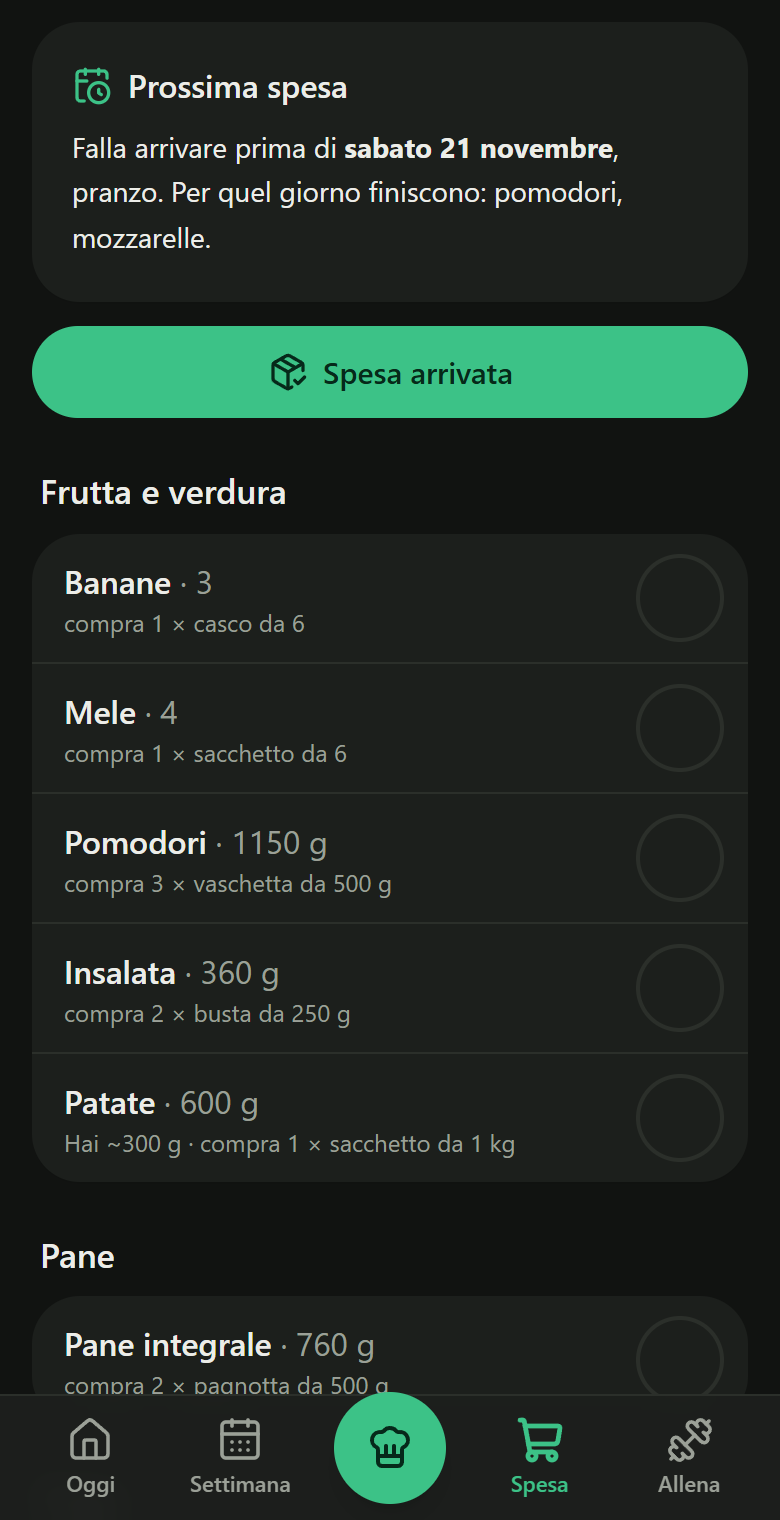
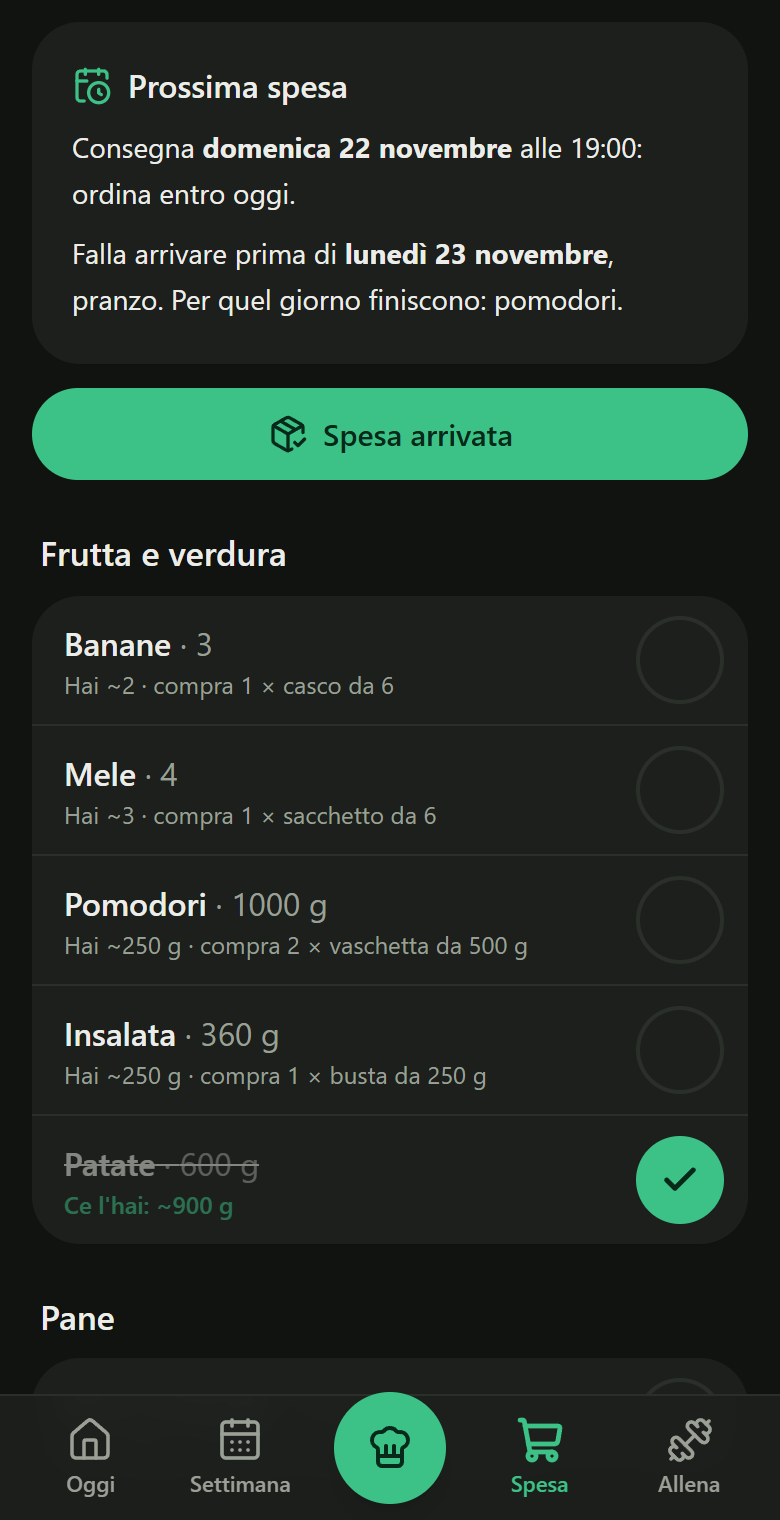
docs: README e schermate, orari personali, consegna della spesa e pausa

diff --git a/README.md b/README.md
@@ -17,11 +17,12 @@ la spesa della settimana e una notifica quando è ora di mettersi ai fornelli.
 
 <br>
 
-<img src="docs/schermate/oggi.png" width="160" alt="Oggi: il prossimo pasto e i pasti del giorno">
-<img src="docs/schermate/pasto.png" width="160" alt="Pasto: la ricetta proposta, le alternative e cosa non hai">
-<img src="docs/schermate/guida.png" width="160" alt="Guida: un passaggio della ricetta alla volta, con il timer in corso">
-<img src="docs/schermate/spesa.png" width="160" alt="Spesa: quando fare la prossima spesa e cosa comprare">
-<img src="docs/schermate/allenamento.png" width="160" alt="Allenamento: sedute della settimana e seduta guidata">
+<img src="docs/schermate/oggi.png" width="132" alt="Oggi: il prossimo pasto e i pasti del giorno">
+<img src="docs/schermate/pasto.png" width="132" alt="Pasto: la ricetta proposta, le alternative e cosa non hai">
+<img src="docs/schermate/guida.png" width="132" alt="Guida: un passaggio della ricetta alla volta, con il timer in corso">
+<img src="docs/schermate/spesa.png" width="132" alt="Spesa: quando arriva la consegna, entro quando ordinare e cosa comprare">
+<img src="docs/schermate/allenamento.png" width="132" alt="Allenamento: sedute della settimana e seduta guidata">
+<img src="docs/schermate/tu.png" width="132" alt="Tu: gli orari dei pasti e degli avvisi, ognuno col suo interruttore, e la consegna della spesa">
 
 <sub>Le schermate usano il piano d'esempio, inventato.</sub>
 
@@ -31,7 +32,7 @@ la spesa della settimana e una notifica quando è ora di mettersi ai fornelli.
 > phone's home screen: the meal of the moment with step-by-step cooking timers, recipes that rotate week by week,
 > the weekly shopping list and pantry, and push notifications. Everyone hosts their own copy (Supabase + Vercel)
 > with their own plan, written in a single Python file that an AI agent can fill in from a questionnaire. A
-> household can share one copy: each user gets their own plan at login.
+> household can share one copy: each user gets their own plan, meal times and reminders at login.
 > **The interface and the docs are in Italian.** MIT license. Not medical advice.
 
 ## Cosa fa
@@ -43,14 +44,17 @@ la spesa della settimana e una notifica quando è ora di mettersi ai fornelli.
 - ⏱ **Cucina passo per passo.** Un passaggio alla volta, a schermo intero e con lo schermo sempre acceso. Ogni
   "20 minuti" scritto nella ricetta diventa un timer, e ne puoi far girare più di uno.
 - 🛒 **Spesa e scorte.** L'app sa cosa hai in casa, ti dice cosa comprare per la settimana e quando fare la
-  prossima spesa. Se manca qualcosa, propone una ricetta che puoi fare con quello che hai.
+  prossima spesa. Se le dici quando arriva la consegna, ti ricorda di ordinare e ti avvisa se qualcosa finisce
+  prima. Se manca qualcosa, propone una ricetta che puoi fare con quello che hai.
 - 🔔 **Notifiche.** Quando iniziare a cucinare, cosa spostare dal freezer al frigo la sera prima, quando
   allenarti.
+- ⚙ **Orari tuoi.** L'ora di ogni pasto e di ogni avviso la cambi dall'app, e ogni avviso ha il suo
+  interruttore. In vacanza metti il piano in pausa: niente avvisi, e le scorte restano ferme.
 - 💪 **Allenamento, se vuoi.** Le sedute della settimana, da spostare con un tocco, e la seduta guidata con i
   timer.
 - 📱 **Un'app sulla Home.** Si installa dal browser, anche su iPhone, e si apre come un'app.
 - 🔒 **Solo vostra.** Ognuno ospita la sua copia, senza registrazione aperta. In casa la stessa copia può servire
-  più persone, ognuna col suo piano: lo sceglie il login.
+  più persone, ognuna col suo piano e i suoi orari: li sceglie il login.
 
 ## Il tuo piano
 
@@ -115,12 +119,18 @@ e orari (pagina Tu) restano di ognuno.
 - **Rotazione.** Per ogni pasto il piano ha un piatto e le sue alternative. La settimana di `INIZIO` propone il
   piatto del piano, poi le alternative girano una settimana dopo l'altra. Una scelta fatta a mano vince sempre.
 - **Scorte.** Quando arriva la spesa la segni come arrivata, oppure carichi il documento di consegna (vedi i
-  limiti). L'app toglie da lì quello che usano i pasti del piano e ti dice cosa comprare e quando.
+  limiti). L'app toglie da lì quello che usano i pasti del piano e ti dice cosa comprare e quando. Oggi conta
+  l'orario dei pasti; nei giorni passati in cui ne hai segnato almeno uno, quelli non segnati valgono come saltati.
+  Di quello che si conserva compri la quantità fissa della lista, che copre la settimana più pesante della
+  rotazione; dei freschi quello che usano i piatti dei 7 giorni dopo la consegna.
+- **Profilo.** Per ogni utente la tabella `profili` dice quale piano segue e le sue preferenze: orari, avvisi
+  spenti, consegna della spesa, pause. Le preferenze si cambiano dalla pagina Tu e valgono sopra il piano.
 - **Guida.** Passo e timer sopravvivono alla chiusura dell'app (`localStorage`), come il contatore dell'acqua.
 - **Notifiche.** Ogni 5 minuti Supabase chiama `POST /api/push/tick`. Per ogni pasto la notifica arriva quando
   devi iniziare a cucinare, cioè all'orario del pasto meno i minuti della ricetta; per il primo pasto della
-  giornata, all'ora del pasto. Alle 22:30 arriva il promemoria per il freezer e, nei giorni di allenamento, uno
-  all'ora della seduta. Per provarle senza inviare nulla, con un'ora simulata nel fuso del piano:
+  giornata, all'ora del pasto. La sera (alle 22:30, se non cambi l'ora) arriva il promemoria per il freezer; nei
+  giorni di allenamento uno all'ora della seduta; il giorno prima della consegna quello per ordinare la spesa.
+  In pausa non parte niente. Per provarle senza inviare nulla, con un'ora simulata nel fuso del piano:
 
   ```powershell
   curl.exe -X POST -H "Authorization: Bearer <CRON_SECRET>" "http://localhost:3000/api/push/tick?dry=1&at=2026-01-05T12:30"
@@ -131,6 +141,10 @@ e orari (pagina Tu) restano di ognuno.
 Se tieni la tua copia in un fork, rispetto a questo repo cambiano solo `piano/<nome>.py` e
 `src/data/piano.json`. Quando prendi gli aggiornamenti e il merge va in conflitto su `src/data/piano.json`, non
 risolverlo a mano: rigeneralo dal tuo piano con il comando sopra.
+
+Dalla 1.0.0 alla 1.0.1: esegui `supabase/migrazioni/profili.sql` nel SQL Editor prima di pubblicare. Se usavi la
+variabile `PIANI`, scrivi nella tabella `profili` una riga per ognuno di quegli utenti (il comando è nel file),
+poi toglila.
 
 Una ricetta o un prodotto rinominati quando l'app è già in uso perdono i dati salvati (pasti segnati, scorte),
 perché i dati su Supabase puntano al loro nome.
